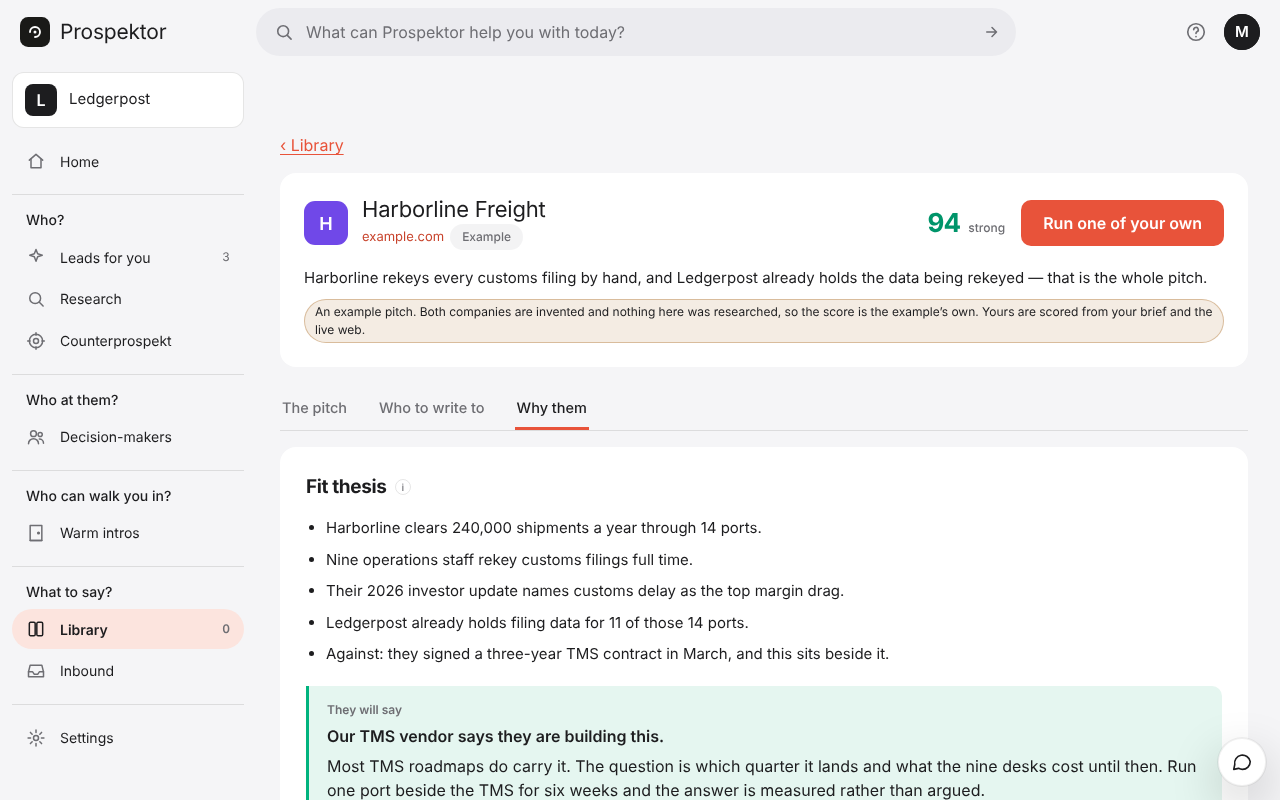
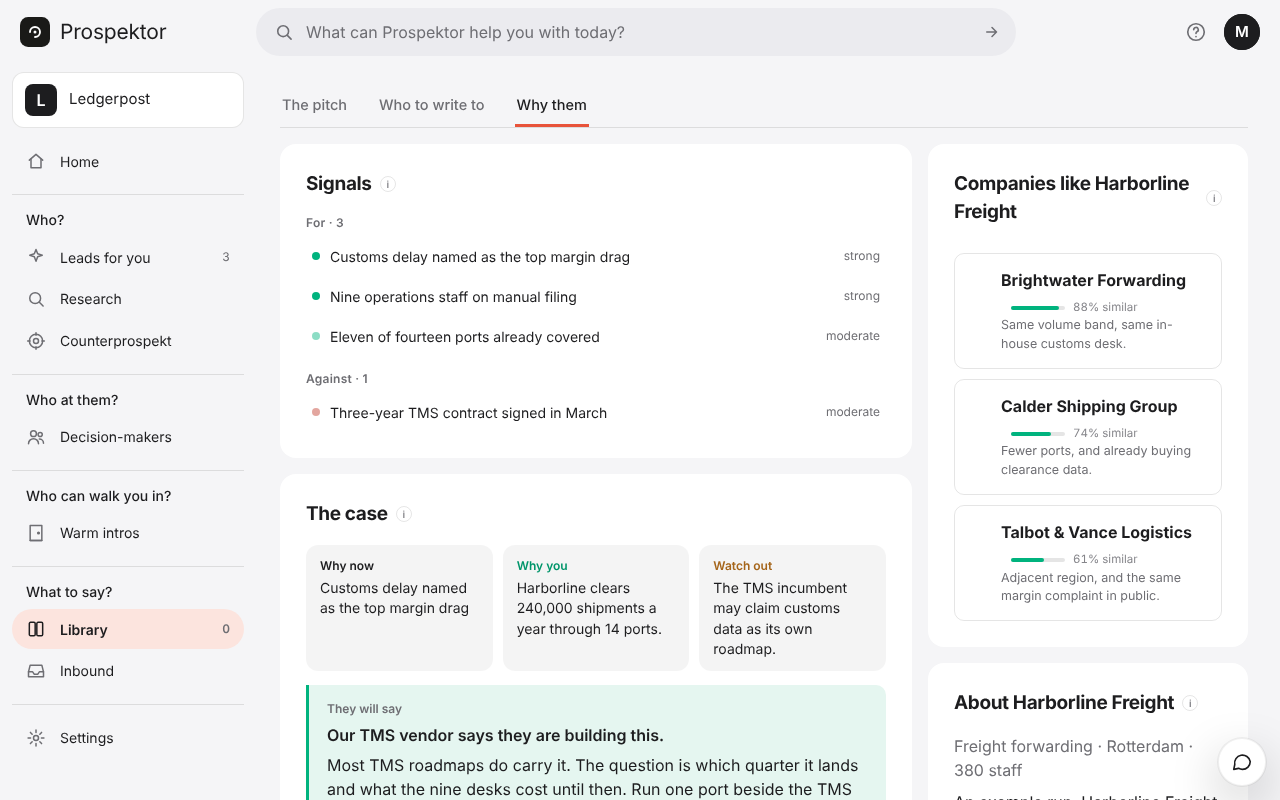
Re-capture /demo/ for Why them on one screen (studio #1177, after #1178)
npm run strings:snapshot and npm run demo:capture against the studio's
deploy tip (524cbd4, code as #1178 shipped it at 349e1fe). The live
screen-fit-thesis.png still showed the Fit thesis bullets #1178 cut.

The shot is now framed from the pitch's tabs down, clear of the fixed top
bar: from the page's head the case's three tiles fell under the fold, so
signals, the case and Companies like Harborline Freight are all in it.

The six integration pages showing that screen named it the fit thesis and
said the CRM note holds it. The tab is Why them now, and the note carries
the fit score, the angle and a link back (lib/crm.js noteBody and each
CRM's own), so the alt and the six captions say that, in de, es and nl too.

Claude-Session: https://claude.ai/code/session_01VHwH1zhJLUquciXyZA99rH

diff --git a/tools/demo-capture.js b/tools/demo-capture.js
@@ -271,6 +271,11 @@ const reading = page => page.evaluate(() => {
 // Why them) and the formats sit behind the pitch card's own menu, so a named
 // screen is a tab and, on the pitch tab, the format the menu shows.
 const NAMED_TABS = { 'fit-thesis': ['why'], 'decision-makers': ['who'], 'pitch-deck': ['pitch', 'asset:deck'], 'cold-email': ['pitch', 'asset:emailSequence'] };
+// A screen framed from its tab row down, clear of the fixed top bar, rather
+// than from the page's head. Why them since the studio's #1178 is signals, the
+// case in three tiles and Companies like X side by side, and from the head the
+// tiles fall under the fold.
+const FROM_TABS = new Set(['fit-thesis']);
 const NAMED_VIEWS = { prep: 'meeting-prep', workspace: 'settings' };
 const NAMED = [...Object.keys(NAMED_TABS), ...Object.values(NAMED_VIEWS)];
 
@@ -290,7 +295,9 @@ async function shootNamed(page, view, stepFile) {
     }, [tab, format || null]);
     if (!hit) throw new Error(`the example pitch has no ${format || tab} to shoot as screen-${name}.png`);
     await page.waitForTimeout(400);
+    if (FROM_TABS.has(name)) await page.evaluate(() => window.scrollTo({ top: document.getElementById('result-tabs').getBoundingClientRect().top + window.scrollY - 84, behavior: 'instant' }));
     await shoot(page, path.join(SHOTS, `screen-${name}.png`));
+    if (FROM_TABS.has(name)) await page.evaluate(() => window.scrollTo({ top: 0, behavior: 'instant' }));
   }
   if (was) await page.evaluate(t => document.querySelector(`#result-tabs button[data-tab="${t}"]`)?.click(), was);
   await page.waitForTimeout(300);
